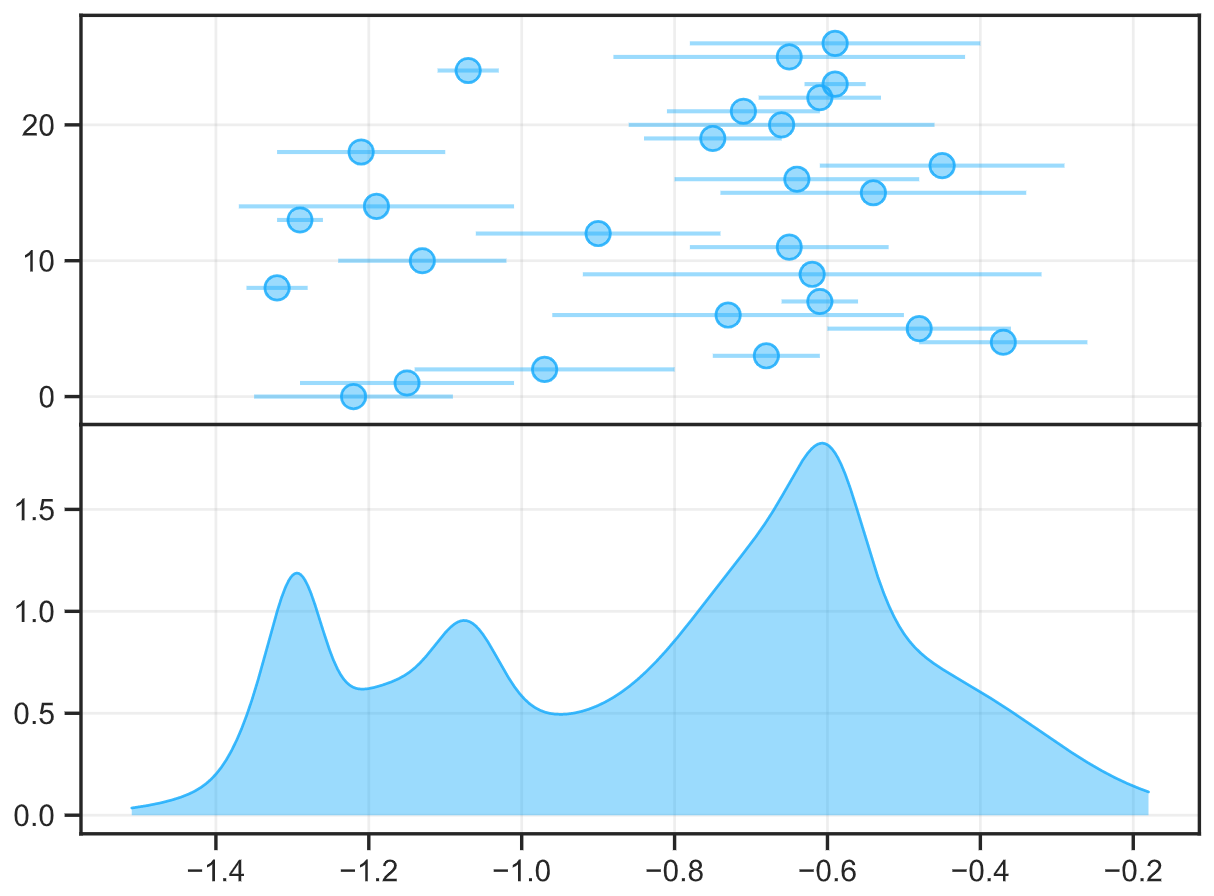
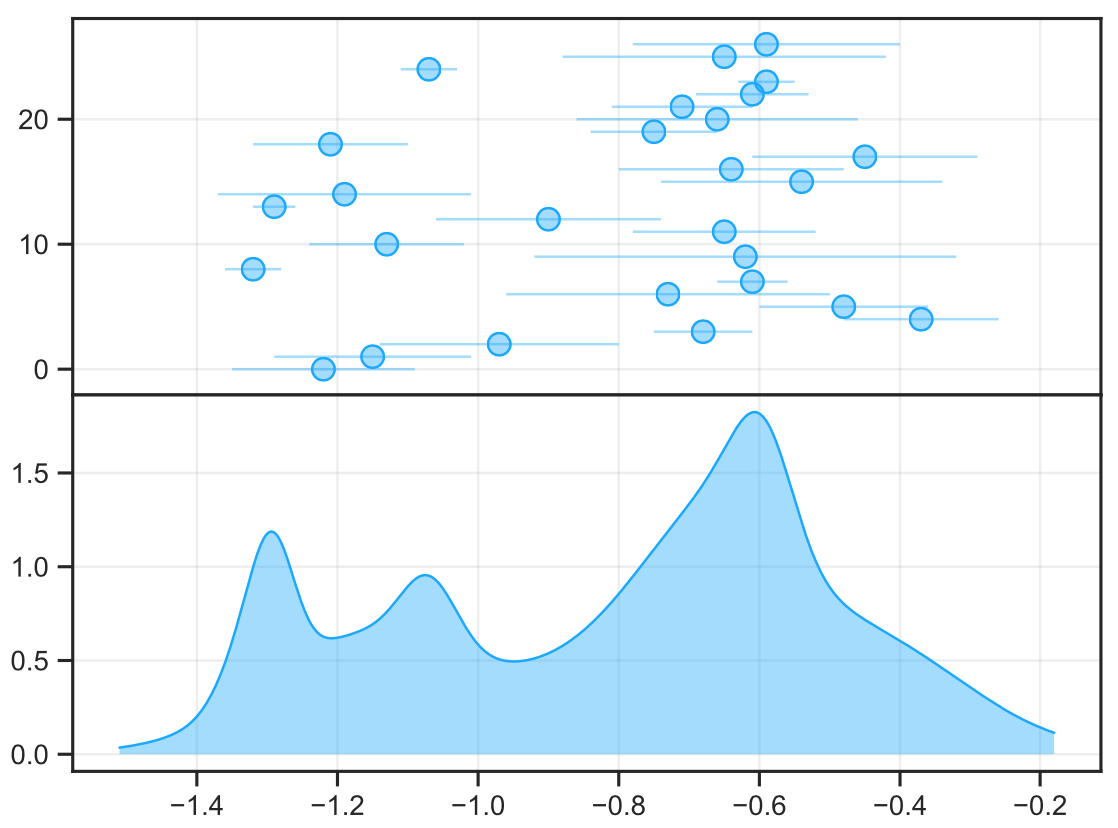
Work

diff --git a/tarpan/plot/kde_test.py b/tarpan/plot/kde_test.py
@@ -33,7 +33,16 @@ def test_save_scatter_and_kde():
     if os.path.isdir(outdir):
         shutil.rmtree(outdir)
 
-    save_scatter_and_kde(values=[1, 1.3, 1.5, 7, 4.9],
-                         uncertainties=[0.1, 0.6, 0.35, 0.41, 0.03])
+    values = [
+            -1.22, -1.15, -0.97, -0.68, -0.37, -0.48, -0.73, -0.61, -1.32,
+            -0.62, -1.13, -0.65, -0.90, -1.29, -1.19, -0.54, -0.64, -0.45,
+            -1.21, -0.75, -0.66, -0.71, -0.61, -0.59, -1.07, -0.65, -0.59]
+
+    uncertainties = [
+         0.13, 0.14, 0.17, 0.07, 0.11, 0.12, 0.23, 0.05, 0.04,
+         0.30, 0.11, 0.13, 0.16, 0.03, 0.18, 0.20, 0.16, 0.16,
+         0.11, 0.09, 0.20, 0.10, 0.08, 0.04, 0.04, 0.23, 0.19]
+
+    save_scatter_and_kde(values=values, uncertainties=uncertainties)
 
     assert os.path.isfile(os.path.join(outdir, "scatter_kde.pdf"))

diff --git a/tarpan/plot/kde.py b/tarpan/plot/kde.py
@@ -12,10 +12,10 @@ class ScatterKdeParams:
     ylabel1: str = None
     ylabel2: str = None
     marker_color: str = "#00a6ff66"
-    marker_edgecolor: str = "#00a6ffcc"
+    marker_edgecolor: str = "#00a6ff"
     errorbar_color: str = "#00a6ff66"
     kde_facecolor: str = "#00a6ff66"
-    kde_edgecolor: str = "#00a6ffcc"
+    kde_edgecolor: str = "#00a6ff"
     grid_color: str = "#aaaaaa"
     grid_alpha: float = 0.2
     markersize: float = 80
@@ -50,6 +50,7 @@ def save_scatter_and_kde(values,
     ax1.errorbar(values, range(len(values)),
                  xerr=uncertainties, fmt='none',
                  ecolor=scatter_kde_params.errorbar_color,
+                 elinewidth=1,
                  zorder=1)
 
     ax1.scatter(values, range(len(values)),
